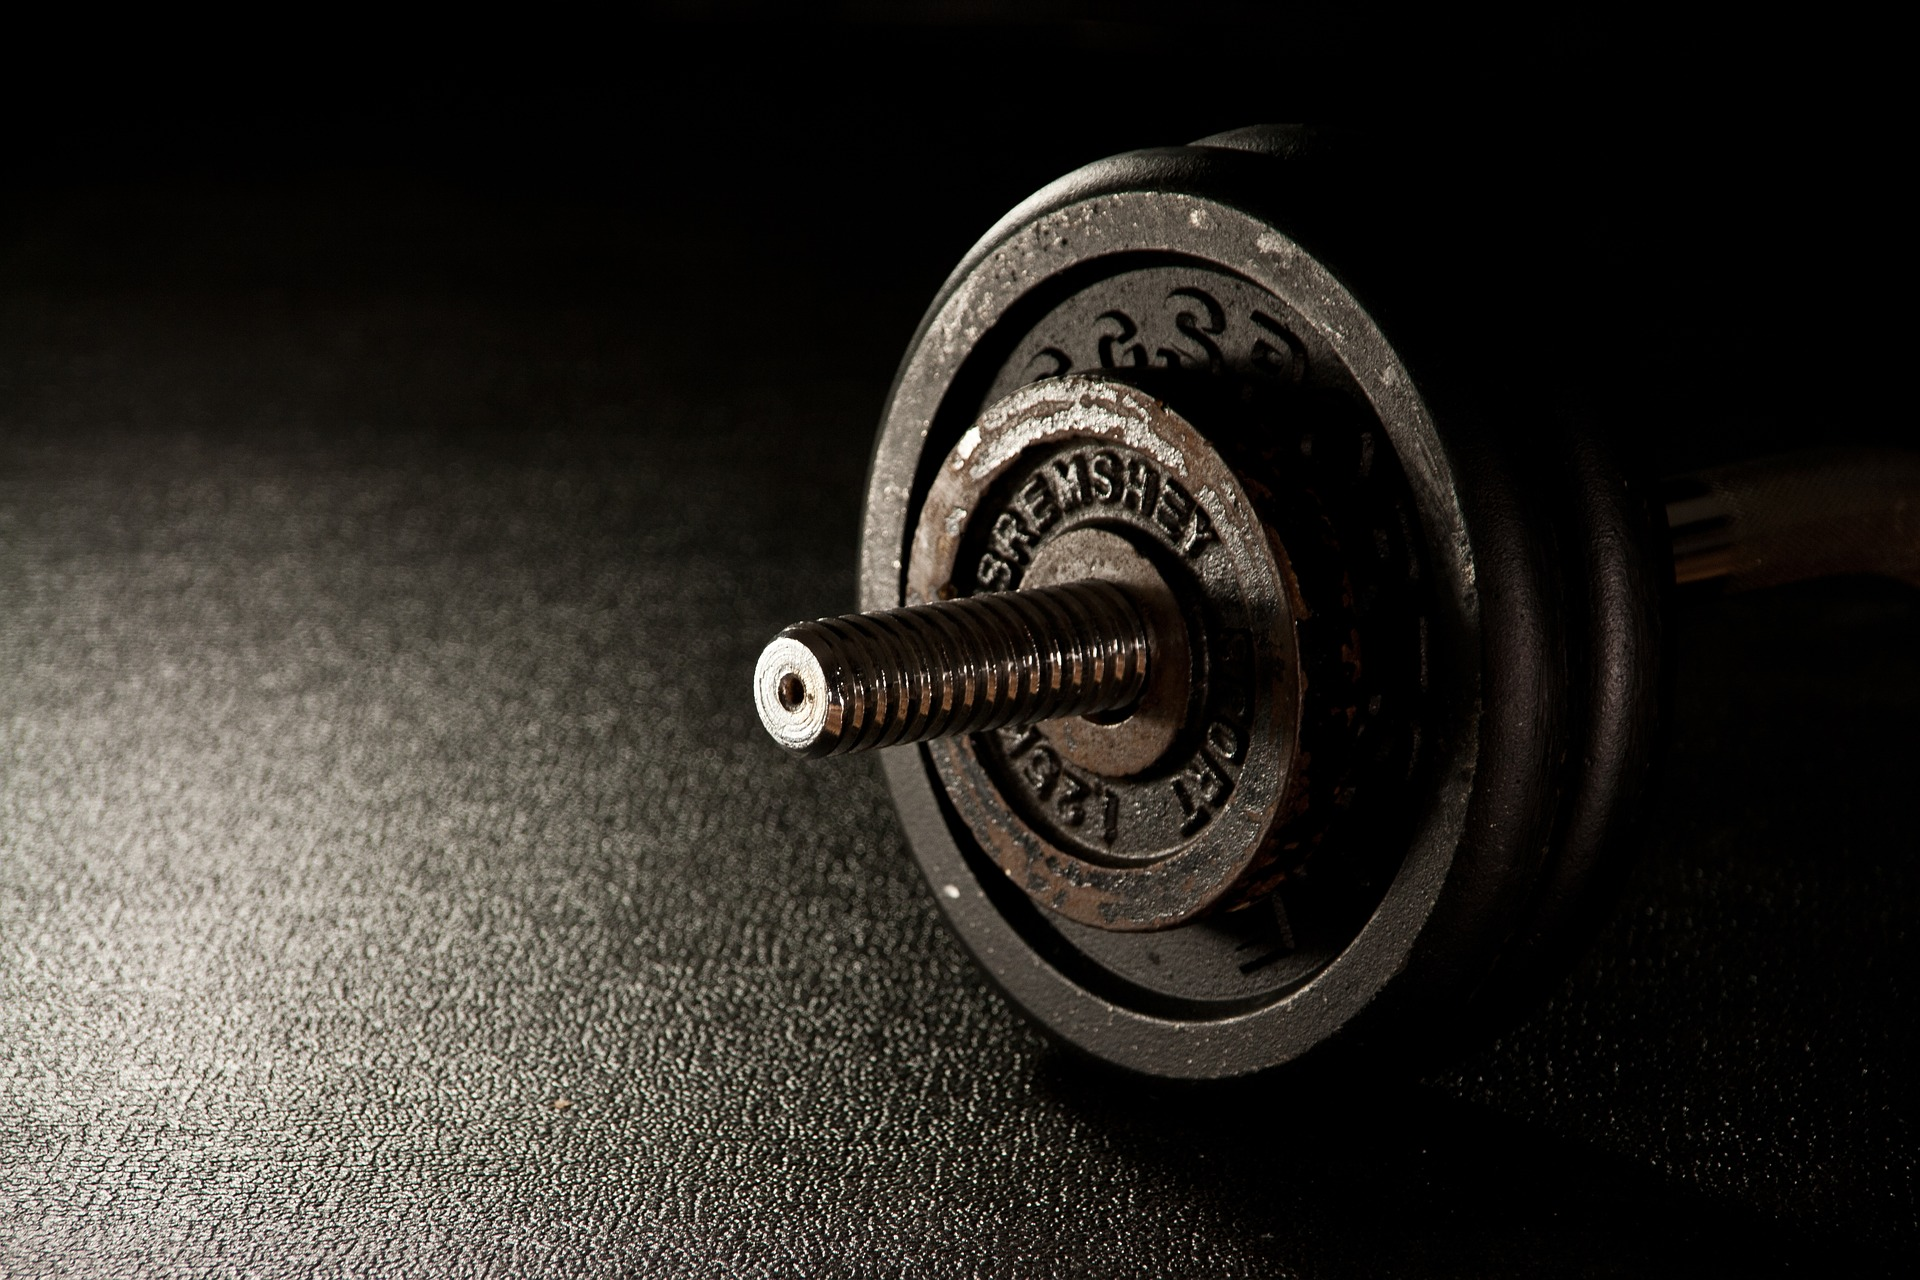
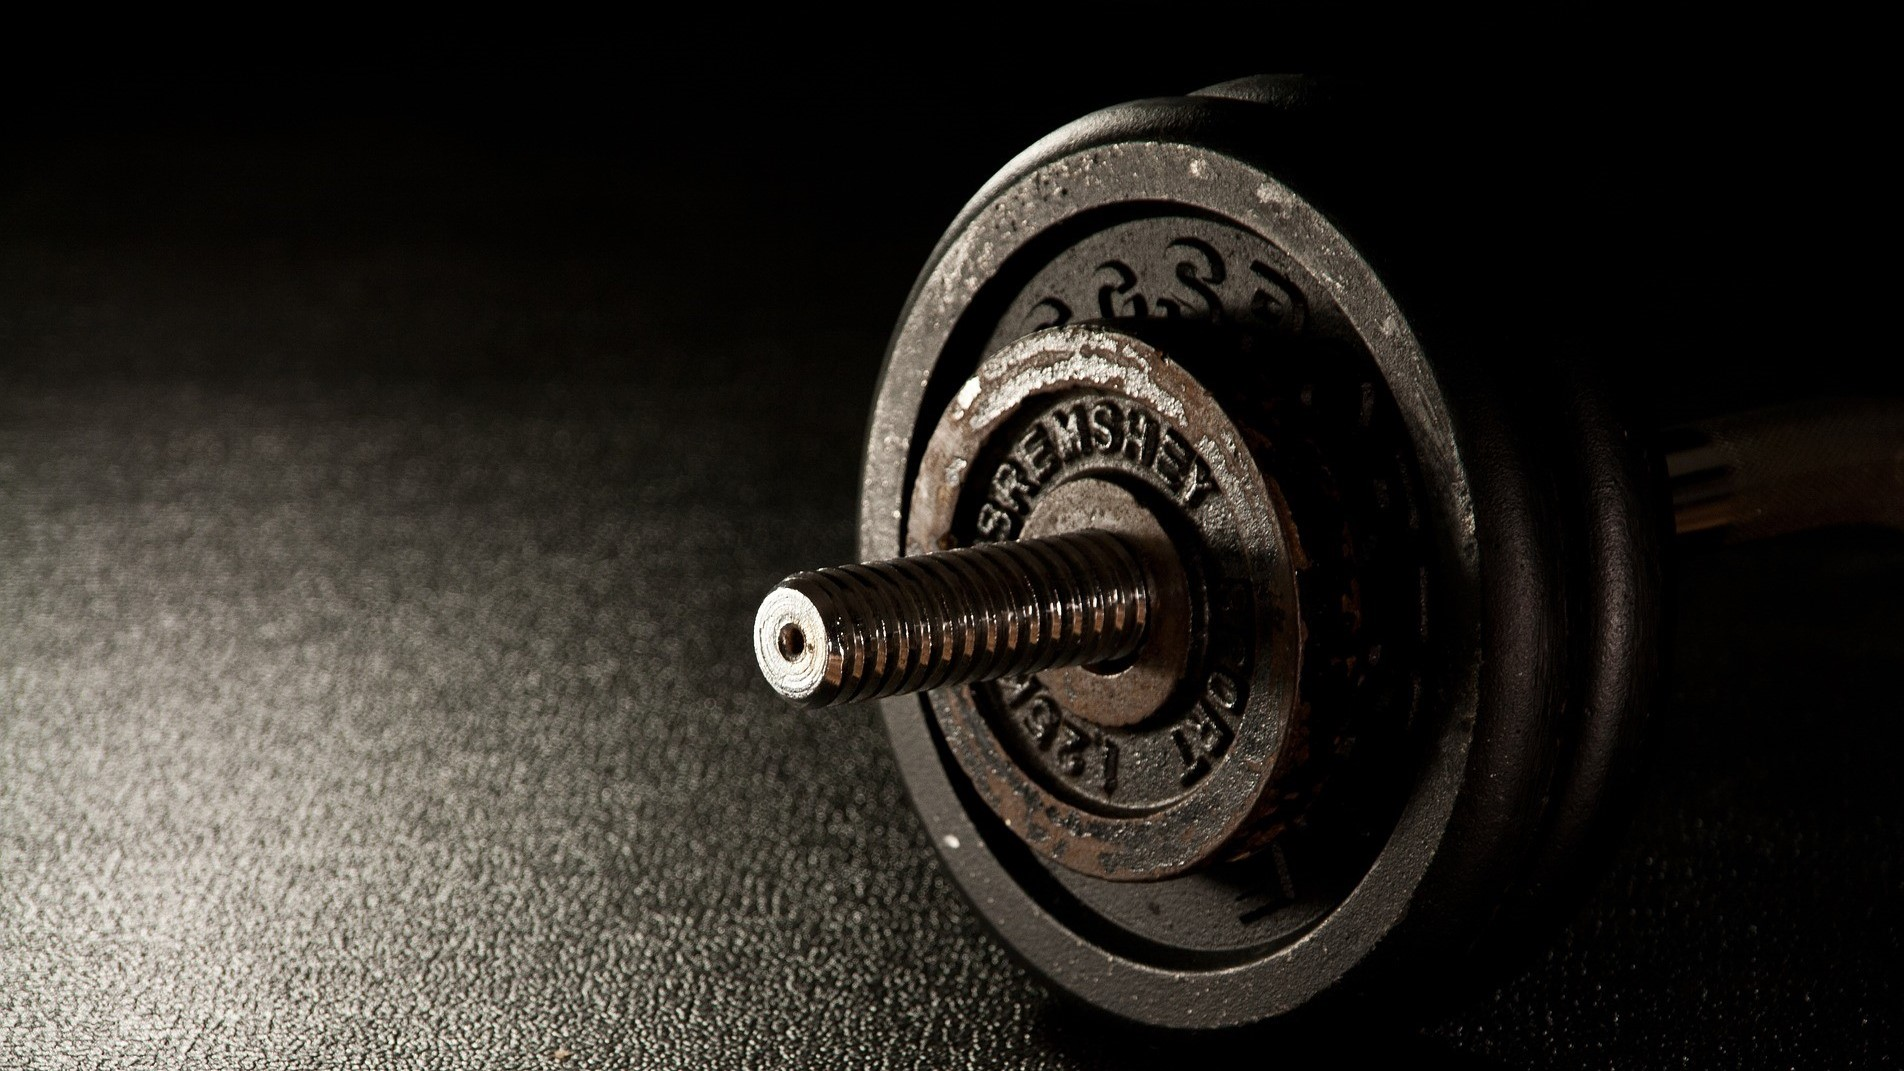
Added links, fixed background isue, made footer responsive

Changed region(s): [[0.0, 0.0616, 0.9296, 1.0], [0.1239, 0.3697, 0.1549, 0.4006]]

diff --git a/assets/css/style.css b/assets/css/style.css
@@ -4,7 +4,7 @@
 /* -----------------------------------Colours */
 
 .bg-color-banner-top {
-    background-color: #3498db;
+    background-color: #1286d3;
 }
 
 .bg-color-banner-bottom {
@@ -25,6 +25,16 @@
 
 .ui-menu-color-join {
     background-color: #5c5f89;
+}
+
+body {
+    box-sizing: border-box;
+    background-image: url("../images/fitness-1882721_1920.jpg");
+    opacity: 0.9;
+    background-size: cover;
+    background-repeat: no-repeat;
+    background-attachment: fixed;
+    background-position: center;
 }
 
 /* -----------------------------------Special paddings/margins/text */
@@ -53,10 +63,11 @@ header {
     margin: 0;
 }
 
-
 .logo {
-    font-size: 80px;
+    font-size: 60px;
+    font-weight: 500;
     text-align: center;
+    padding-top: 10px;
     font-family: 'Lato', sans-serif;
     min-height: 120px;
     color: #d4c8c8;
@@ -140,6 +151,7 @@ footer {
 
 p span {
   display: block;
+  font-size: 15px;
 }
 
 .social-links li a i {
@@ -160,18 +172,39 @@ p span {
 /* -----------------------------------Index */
 
 .index-text {
-    font-style: italic;
-    text-align: left;
-    padding: 100px 30px;
-    color: #d4c8c8;
+    margin-top: 100px;
+    margin-left: 20px;
 }
 
-.index-pic {
-    background: url("../images/fitness-1882721_1920.jpg");
-    opacity: 0.7;
-    background-size: cover;
-    background-repeat: no-repeat;
-    background-attachment: fixed;
-    background-position: center;
-    height: 100vh;
+.index-text h1 {
+    font-style: italic;
+    text-align: left;
+    margin-bottom: 30px;
+    color: #d4c8c8;
+    -webkit-text-stroke: 1px #000000;
 }
+
+.btn-secondary {
+    margin-top: 30px;
+    background-color: #e67e22;
+    font-weight: 600;
+    margin-bottom: 100px;
+}
+
+/* -----------------------------------Media Queries */
+
+@media (min-width: 540px) {
+    html {
+        position: relative;
+        min-height: 100%;
+    }
+    body {
+        margin-bottom: 120px;
+    }
+    footer {
+        position: absolute;
+        bottom: 0;
+        width: 100%;
+        min-height: 120px;
+    }
+

diff --git a/index.html b/index.html
@@ -24,16 +24,16 @@
                     <div class="col">
                         <ul id="nav" class="list-inline menucontainer">
                             <li class="col-6 col-sm-3 ui-menu-color-home list-inline-item menuitem">
-                                <a href="#" class="hvr-fade"><span>Home</span></a>
+                                <a href="index.html" class="hvr-fade"><span>Home</span></a>
                             </li>
                             <li class="col-6 col-sm-3 ui-menu-color-pt list-inline-item menuitem">
-                                <a href="#" class="hvr-fade"><span>PT</span></a>
+                                <a href="pt.html" class="hvr-fade"><span>PT</span></a>
                             </li>
                             <li class="col-6 col-sm-3 ui-menu-color-classes list-inline-item menuitem">
-                                <a href="#" class="hvr-fade"><span>Classes</span></a>
+                                <a href="classes.html" class="hvr-fade"><span>Classes</span></a>
                             </li>
                             <li class="col-6 col-sm-3 ui-menu-color-join list-inline-item menuitem">
-                                <a href="#" class="hvr-fade"><span>Join</span></a>
+                                <a href="join.html" class="hvr-fade"><span>Join</span></a>
                             </li>
                         </ul>
                     </div>
@@ -46,10 +46,13 @@
     </header>
 
     <section class="container-fluid">
-        <div class="row ">
-            <div class="col index-text index-pic">
-                <h1>Want to become a better you?</h1><br>
+        <div class="row">
+            <div class="col index-text">
+                <h1>Want to become a better you?</h1>
                 <h1>We'll help you achieve your goals!</h1>
+                <a href="join.html">
+                    <button type="button" class="btn btn-secondary btn-lg">Join Us Today!</button>
+                </a>
             </div>
         </div>
     </section>

diff --git a/classes.html b/classes.html
@@ -24,16 +24,16 @@
                     <div class="col">
                         <ul id="nav" class="list-inline menucontainer">
                             <li class="col-6 col-sm-3 ui-menu-color-home list-inline-item menuitem">
-                                <a href="#" class="hvr-fade"><span>Home</span></a>
+                                <a href="index.html" class="hvr-fade"><span>Home</span></a>
                             </li>
                             <li class="col-6 col-sm-3 ui-menu-color-pt list-inline-item menuitem">
-                                <a href="#" class="hvr-fade"><span>PT</span></a>
+                                <a href="pt.html" class="hvr-fade"><span>PT</span></a>
                             </li>
                             <li class="col-6 col-sm-3 ui-menu-color-classes list-inline-item menuitem">
-                                <a href="#" class="hvr-fade"><span>Classes</span></a>
+                                <a href="classes.html" class="hvr-fade"><span>Classes</span></a>
                             </li>
                             <li class="col-6 col-sm-3 ui-menu-color-join list-inline-item menuitem">
-                                <a href="#" class="hvr-fade"><span>Join</span></a>
+                                <a href="join.html" class="hvr-fade"><span>Join</span></a>
                             </li>
                         </ul>
                     </div>

diff --git a/join.html b/join.html
@@ -24,16 +24,16 @@
                     <div class="col">
                         <ul id="nav" class="list-inline menucontainer">
                             <li class="col-6 col-sm-3 ui-menu-color-home list-inline-item menuitem">
-                                <a href="#" class="hvr-fade"><span>Home</span></a>
+                                <a href="index.html" class="hvr-fade"><span>Home</span></a>
                             </li>
                             <li class="col-6 col-sm-3 ui-menu-color-pt list-inline-item menuitem">
-                                <a href="#" class="hvr-fade"><span>PT</span></a>
+                                <a href="pt.html" class="hvr-fade"><span>PT</span></a>
                             </li>
                             <li class="col-6 col-sm-3 ui-menu-color-classes list-inline-item menuitem">
-                                <a href="#" class="hvr-fade"><span>Classes</span></a>
+                                <a href="classes.html" class="hvr-fade"><span>Classes</span></a>
                             </li>
                             <li class="col-6 col-sm-3 ui-menu-color-join list-inline-item menuitem">
-                                <a href="#" class="hvr-fade"><span>Join</span></a>
+                                <a href="join.html" class="hvr-fade"><span>Join</span></a>
                             </li>
                         </ul>
                     </div>

diff --git a/pt.html b/pt.html
@@ -24,16 +24,16 @@
                     <div class="col">
                         <ul id="nav" class="list-inline menucontainer">
                             <li class="col-6 col-sm-3 ui-menu-color-home list-inline-item menuitem">
-                                <a href="#" class="hvr-fade"><span>Home</span></a>
+                                <a href="index.html" class="hvr-fade"><span>Home</span></a>
                             </li>
                             <li class="col-6 col-sm-3 ui-menu-color-pt list-inline-item menuitem">
-                                <a href="#" class="hvr-fade"><span>PT</span></a>
+                                <a href="pt.html" class="hvr-fade"><span>PT</span></a>
                             </li>
                             <li class="col-6 col-sm-3 ui-menu-color-classes list-inline-item menuitem">
-                                <a href="#" class="hvr-fade"><span>Classes</span></a>
+                                <a href="classes.html" class="hvr-fade"><span>Classes</span></a>
                             </li>
                             <li class="col-6 col-sm-3 ui-menu-color-join list-inline-item menuitem">
-                                <a href="#" class="hvr-fade"><span>Join</span></a>
+                                <a href="join.html" class="hvr-fade"><span>Join</span></a>
                             </li>
                         </ul>
                     </div>
